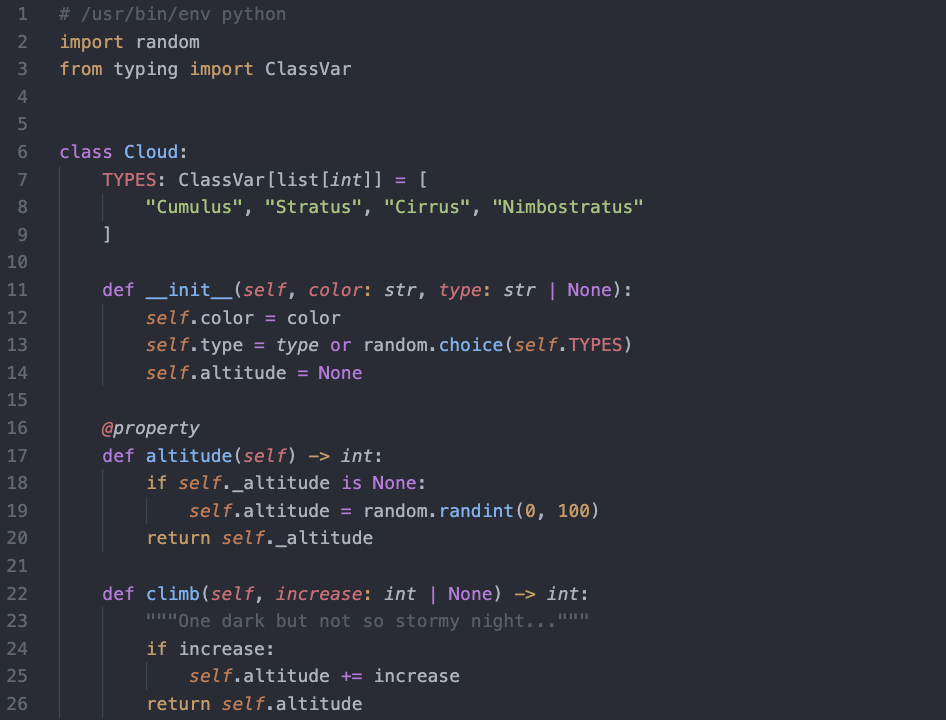
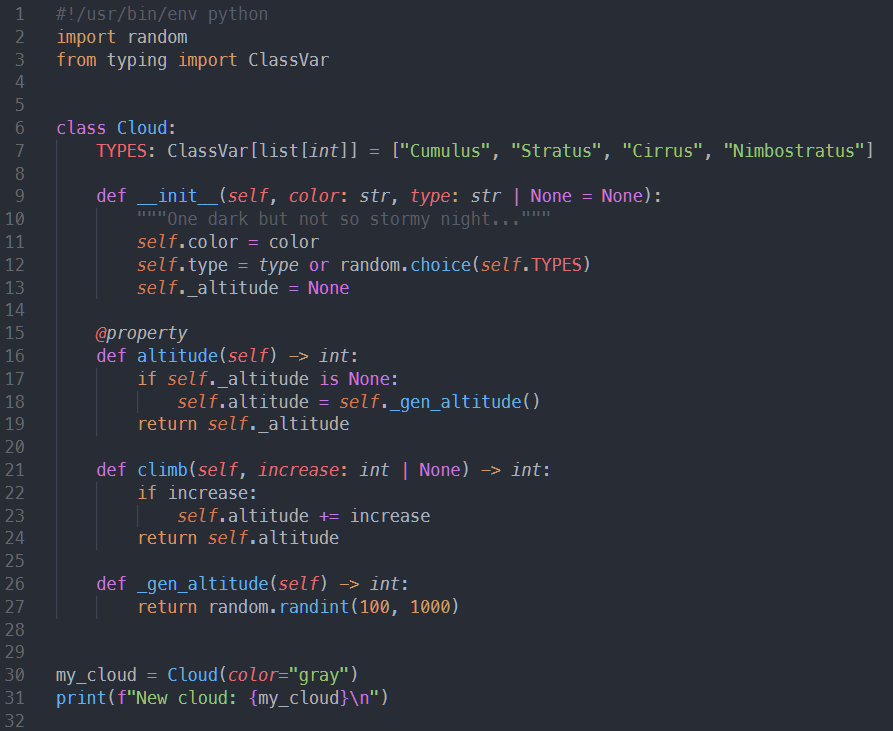
support Go

diff --git a/dev/cloud.py b/dev/cloud.py
@@ -1,4 +1,4 @@
-# /usr/bin/env python
+#!/usr/bin/env python
 import random
 from typing import ClassVar
 
@@ -6,19 +6,26 @@ from typing import ClassVar
 class Cloud:
     TYPES: ClassVar[list[int]] = ["Cumulus", "Stratus", "Cirrus", "Nimbostratus"]
 
-    def __init__(self, color: str, type: str | None):
+    def __init__(self, color: str, type: str | None = None):
+        """One dark but not so stormy night..."""
         self.color = color
         self.type = type or random.choice(self.TYPES)
-        self.altitude = None
+        self._altitude = None
 
     @property
     def altitude(self) -> int:
         if self._altitude is None:
-            self.altitude = random.randint(0, 100)
+            self.altitude = self._gen_altitude()
         return self._altitude
 
     def climb(self, increase: int | None) -> int:
-        """One dark but not so stormy night..."""
         if increase:
             self.altitude += increase
         return self.altitude
+
+    def _gen_altitude(self) -> int:
+        return random.randint(100, 1000)
+
+
+my_cloud = Cloud(color="gray")
+print(f"New cloud: {my_cloud}\n")

diff --git a/dev/cloud.go b/dev/cloud.go
@@ -1,0 +1,48 @@
+package main
+
+import (
+	"fmt"
+	"math/rand"
+	"time"
+)
+
+var CloudTypes = [4]string{"Cumulus", "Stratus", "Cirrus", "Nimbostratus"}
+
+type Climber interface {
+	climb(increase int) int
+}
+
+// One dark but not so stormy night...
+type Cloud struct {
+	Color     string
+	Type      string
+	Timestamp time.Time
+	Altitude  int
+}
+
+func (c *Cloud) Climb(increase int) int {
+	c.Altitude += increase
+	return c.Altitude
+}
+
+func randType() string {
+	i := rand.Intn(len(CloudTypes))
+	return CloudTypes[i]
+}
+
+func genAltitude() int {
+	const min int = 100
+	const max int = 1000
+	return rand.Intn(max-min) + min
+}
+
+func main() {
+	myCloud := Cloud{
+		Color:     "gray",
+		Type:      randType(),
+		Timestamp: time.Now().UTC(),
+		Altitude:  genAltitude(),
+	}
+	myCloud.Climb(250)
+	fmt.Printf("New cloud: %v\n", myCloud)
+}

diff --git a/dev/cloud.rb b/dev/cloud.rb
@@ -1,20 +1,20 @@
 #!/usr/bin/env ruby
-require "atmosphere"
+require 'atmosphere'
 
 class Cloud
-  TYPES = ["Cumulus", "Stratus", "Cirrus", "Nimbostratus"].freeze
+  TYPES = ['Cumulus', 'Stratus', 'Cirrus', 'Nimbostratus'].freeze
 
   attr_accessor :color, :altitude
   attr_reader :type
 
   def initialize(color, type = nil)
+    # One dark but not so stormy night...
     @color = color
     @type = type || TYPES.sample
     @altitude = gen_altitude
   end
 
   def climb(increase = nil)
-    # One dark but not so stormy night...
     @altitude += increase if increase
     @altitude
   end
@@ -22,6 +22,9 @@ class Cloud
   private
 
   def gen_altitude
-    rand(0..100)
+    rand(100..1000)
   end
 end
+
+my_cloud = Cloud.new('gray')
+print "New cloud: #{my_cloud}\n"

diff --git a/README.md b/README.md
@@ -16,7 +16,9 @@ code --install-extension one-dark-cloud-theme
 
 ## WSL terminal
 
-In WSL, you may notice some directories are highlighted with green when using `ls`. You can fix it by adding the following to your WSL's `~/.bashrc`:
+In the WSL terminal, you may notice some directories are highlighted with green when using `ls`.
+
+This is a WSL quirk which can be fixed by adding the following to WSL's `~/.bashrc`:
 
 ```bash
 LS_COLORS="ow=01;36"
